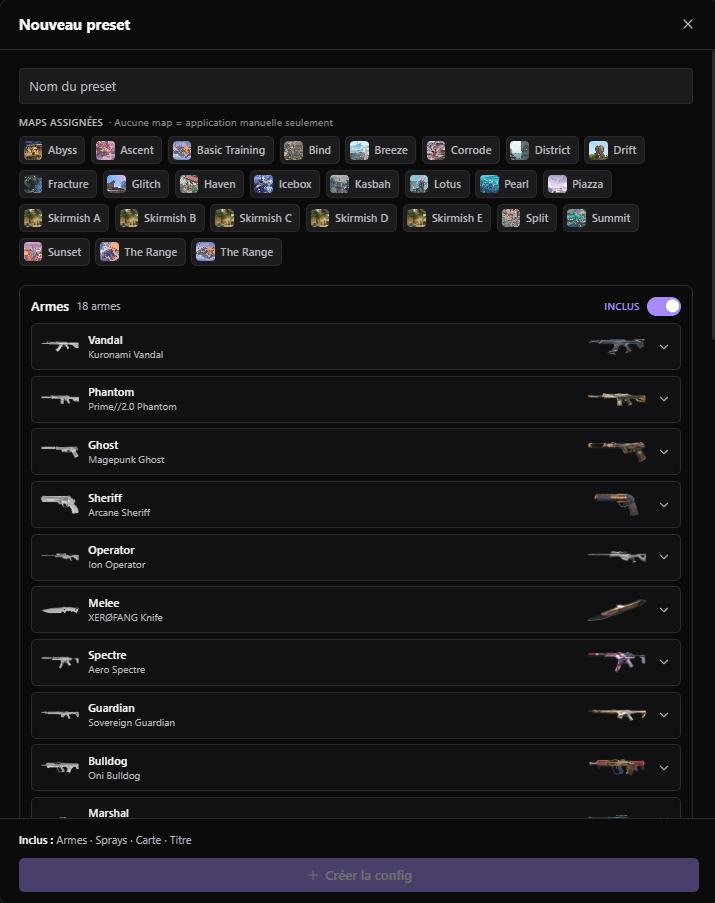
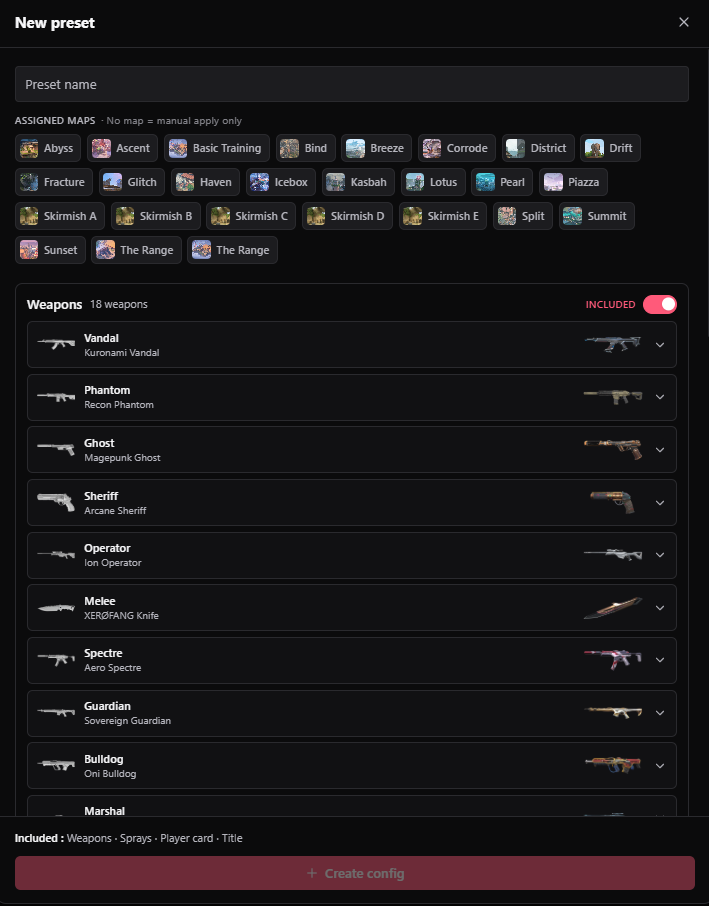
docs: README 5.4 — nouvelles features + screenshots EN
Section « What's New in 5.4 » (chat & roster, stats avancees + tags plateforme
PC/console, chargement intelligent des rangs, Purchase History, Season Goal,
Game Info, Lineups & Tips, World Leaderboard, XP/checkpoints/passes precedents,
compte par defaut, account health, favoris). Sections enrichies (Collection,
Match History, Friends, Player Inspector, Premier, Multi-Account) et Contracts
& Battle Pass renommee Contracts & XP. Screenshots FR remplaces par leur
version anglaise (preset = capture fraiche UI v5.4).

Changed region(s): [[0.0, 0.0, 1.0, 1.0], [0.9929, 0.031, 1.0, 0.3721]]

diff --git a/README.md b/README.md
@@ -16,6 +16,7 @@
 
 ## Table of Contents
 
+- [What's New in 5.4](#whats-new-in-54)
 - [Screenshots](#screenshots)
 - [Core Features](#core-features)
 - [Privacy & Security](#privacy--security)
@@ -23,6 +24,35 @@
 - [Technical Stack](#technical-stack)
 - [About This Project](#about-this-project)
 - [Legal](#legal)
+
+---
+
+## What's New in 5.4
+
+**Friends & chat**
+- Full in-app **chat** with friends — send and receive messages in real time over Riot XMPP, with persistent history and unread badges
+- **Roster management** — add or remove friends and handle incoming/outgoing friend requests
+
+**Scouting & stats**
+- **Advanced scoreboard stats** — ADR, first kills/deaths, plants/defuses, and multikill badges (2K / 3K / 4K / Ace)
+- **Per-player platform tags** (PC / PS5 / Xbox) — console ranks are clearly labeled and never mixed with PC ranks
+- **Smart rank loading** — competitive scoreboards appear instantly, with any missing ranks filling in progressively; outside competitive, ranks stay hidden and load only on demand (a **Reveal** button, or automatically when you open a player's inspector) — keeping requests well under Riot's limits
+
+**New tabs**
+- **Purchase History** — your real payment history plus every VP / RP / Kingdom Credits transaction
+- **Season Goal** — set a target rank and track your RR progression over time (chart + ranked stats)
+- **Game Info** — Agents (abilities), Maps (annotatable 2D layouts), and Weapons (stats & damage)
+- **Lineups & Tips** — community clips for the current map, in-app
+- **World Leaderboard** — regional competitive ranking
+
+**Contracts & economy**
+- Account **XP & level** card, **daily XP checkpoints**, and XP + Kingdom Credits earned per match
+- Browse **previous battle passes**
+
+**Quality of life**
+- **Default account** (star) loaded first at startup
+- **Account health** card (status & sanctions) in Settings
+- Collection **favorites**, clear-match-cache reset, and many fixes
 
 ---
 
@@ -37,7 +67,7 @@
 ### Match History & Career Stats
 ![Profile](https://raw.githubusercontent.com/Main-Zenato/VALAPP-desktop/main/.github/assets/profile.png)
 
-### Contracts & Battle Pass
+### Contracts & XP
 ![Contracts](https://raw.githubusercontent.com/Main-Zenato/VALAPP-desktop/main/.github/assets/contrat.png)
 
 ### Loadout Presets by Map
@@ -76,6 +106,7 @@
 | Category | Features |
 |----------|----------|
 | **Skins** | Group by weapon, preview all levels & chromas, watch demo videos, equip any variant |
+| **Favorites** | Star your go-to skins into a pinned Favorites strip for one-click access |
 | **Buddies** | Equip per weapon, integrated in skin detail panel |
 | **Sprays** | Full 6-slot spray wheel with animation previews |
 | **Player Cards** | Wide and standard art formats, equip globally |
@@ -105,26 +136,30 @@
 **Detailed breakdown of every competitive match.**
 
 - Full game stats: K/D/A, ACS, HS%, W/L, RR delta
-- Click any match to view detailed scoreboard
-- Both teams ranked by performance
-- Agent icons, map info, player ranks
+- Click any match for a detailed scoreboard with **advanced stats** — ADR, first kills / deaths, plants / defuses, and **multikill badges** (2K / 3K / 4K / Ace)
+- **Platform tags** per player (PC / PS5 / Xbox) so console ranks are never mistaken for PC ranks
+- Both teams ranked by performance, with agent icons, map info, and player ranks
 - Recent stats summary: win rate, K/D ratio, headshot %
+- **World Leaderboard** — regional competitive ranking, with your own position highlighted
 
 ### Multi-Account Manager
 **Switch between Riot accounts instantly.**
 
 - All accounts stored locally with encrypted sessions (Windows DPAPI)
 - One-click account switching in the sidebar
+- **Default account** (star) loaded first at startup — falls back gracefully if its session has expired
 - Silent refresh on startup — no login screen for valid sessions
 - Add, remove, or switch without relaunching
 - Each account keeps its own stats and collections
 
 ### Friends & Party Network
-**Real-time presence powered by Riot XMPP protocol.**
+**Real-time presence and chat powered by Riot XMPP protocol.**
 
 - Online / In Game / Away / Offline status
 - Queue type and current map for friends in-game
 - Rank icons and current RR
+- **In-app chat** — send and receive messages in real time, with persistent history and unread badges
+- **Roster management** — add or remove friends, and accept or decline incoming/outgoing friend requests
 - Click any friend to inspect stats
 - Send party invitations directly through XMPP
 
@@ -132,24 +167,56 @@
 **Instantly check any player's recent form — from party, live match, friends, or match history.**
 
 - Current rank and RR, peak rank this season, account level
-- **Recent ranked form**: rank trajectory (where they started → where they are now) with the RR gained or lost on each of their recent games
+- **Recent ranked form**: rank trajectory (where they started → where they are now) with the RR gained or lost on each of their recent games — including a clear marker for two-tier jumps
+- **Platform-aware** — a player's ranks are labeled by platform (PC / console), never mixed
 - **Previous-act notice** when a player is unranked this act — so old stats are never mistaken for their current standing
 - Loads one player at a time, on click — lightweight and rate-limit friendly
 
-### Contracts & Battle Pass
-**Never miss a mission or season reward.**
+### Contracts & XP
+**Never miss a mission or season reward — and see exactly what each match earns you.**
 
 - Daily and weekly mission progress with countdowns
 - Future missions grouped by week (never miss an activation)
-- Battle Pass tier progression
-- Next reward preview
+- Battle Pass tier progression and next-reward preview
+- Browse **previous battle passes**
+- **Account XP & level** card with progression, plus **daily XP checkpoints**
+- **Per-match breakdown** — XP and Kingdom Credits earned, including the first-win-of-the-day bonus
+
+### Purchase History
+**Every payment and in-game transaction, in one place.**
+
+- Real payment history (your actual purchases)
+- VP / RP / Kingdom Credits transactions
+- Clear timeline of what you spent and when
+
+### Season Goal
+**Set a target rank and watch yourself climb toward it.**
+
+- Pick a target rank for the act
+- RR progression chart over time
+- Ranked stats and a simple estimate of what's left
+- Tracking starts the moment you set a goal — no noise before that
 
 ### Premier
-**Follow your Premier team and the season schedule.**
+**Follow your Premier team, its ranking, and the season schedule.**
 
-- Your team: name, tag, members, and conference
+- Your team: name, tag, **full roster composition**, and conference
+- **Team ranking** and **match history**
 - Eligibility status
 - Season schedule by conference — upcoming match nights and tournaments, with local times and countdowns
+
+### Game Info
+**Agents, Maps, and Weapons — right inside the app.**
+
+- **Agents** — role, abilities, and descriptions
+- **Maps** — annotatable 2D layouts (draw callouts and setups)
+- **Weapons** — stats and damage breakdown
+
+### Lineups & Tips
+**Community clips for the map you're about to play.**
+
+- Curated lineup and tip clips surfaced in-app
+- Watch without leaving VALAPP
 
 ### Crosshair Generator
 **Design a crosshair and export it in one click.**
@@ -175,12 +242,18 @@
 - Progress bar during installation
 - Signed releases with **minisign** verification
 
+### Account Health
+**Know your account's standing at a glance.**
+
+- Status and sanctions card in Settings
+- Surfaces restrictions or penalties tied to the account
+
 ### Customization
 - **10+ accent themes**: Valorant, Blue, Green, Purple, Jett, Omen, Phoenix, Sage, Jinx, Vi
 - **UI language**: English or French
 - **Resource language**: 11 regions (en-US, fr-FR, de-DE, es-ES, es-MX, pt-BR, ru-RU, tr-TR, ja-JP, ko-KR, zh-CN)
 - **Streamer Mode**: hides account names and tags from the UI for privacy on stream
-- **Danger zone**: Clear all accounts or collection cache
+- **Danger zone**: Clear all accounts, or clear the collection / match cache for a clean reset
 
 ---
 
@@ -274,7 +347,7 @@ VALAPP Desktop is an **independent third-party companion** — not affiliated wi
 
 ## Legal
 
-© 2025 Zenato — All rights reserved.
+© 2025–2026 Zenato — All rights reserved.
 
 VALAPP Desktop is proprietary freeware. The source code is not public.
 Redistribution of any binaries without explicit written permission is prohibited.
